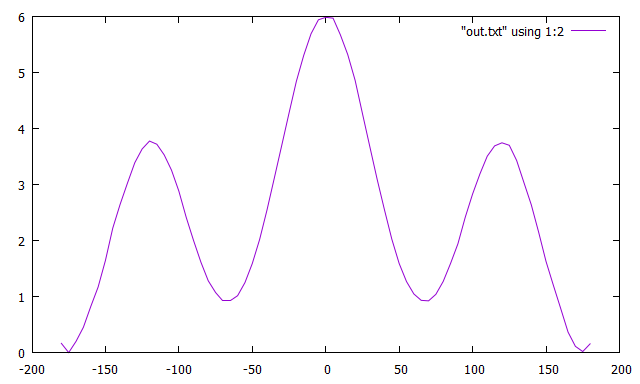
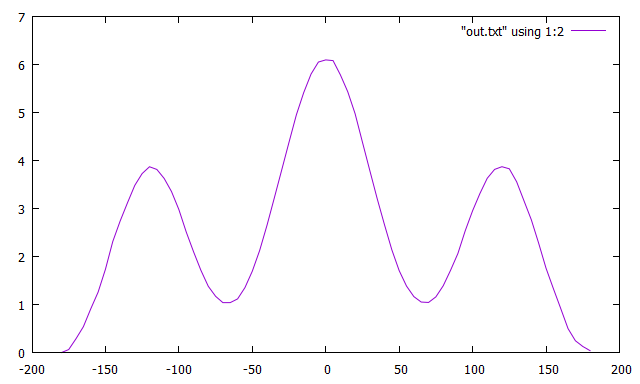
hopefully fix error with dihedrals > 180

diff --git a/manual/Tutorial/LaTeX/Tutorial.tex b/manual/Tutorial/LaTeX/Tutorial.tex
@@ -1300,17 +1300,17 @@ import os
 import shutil
 
 # USER INPUT
-STEPS = range(-180, 185, 5)           # to which values was the restraint set? 
+STEPS = range(-180, 185, 5)           # to which values should the restraint be set? 
 FORCE_CONSTANT = 0.05                 # force constant of biasing potential
 PATH = "/apps/wham/wham/wham"         # path to WHAM program
 
 # ... for WHAM
-REACTION_COORD = "torsion"   # what kind of reaction coordinate? 'bond' or 'torsion'
-BINS = 73                    # number of points in final PMF (= number of bins)
-MIN = -182.5                 # minimum boundary of histogram
-MAX = 182.5                  # maximum boundary of histogram
-TEMP = 300                   # temperature for WHAM 
-TOL = 0.00001                # tolerance for WHAM interations
+PERIOD = None       # periodicity of the reaction coordinate, description see WHAM manual |\label{wham_period}|
+MIN = -182.5        # minimum boundary of histogram
+MAX = 182.5         # maximum boundary of histogram
+BINS = 73           # number of points in final PMF (= number of bins)
+TEMP = 300          # temperature for WHAM 
+TOL = 0.00001       # tolerance for WHAM interations
 
 
 # creates a folder 'analysis' and copies all 'umbrella.txt' files there
@@ -1326,7 +1326,7 @@ def copy_and_and_create_inputfile():
             shutil.copy("{}/umbrella.txt".format(s),"analysis/umbrella_{}.txt".format(s))
             # write inputfile for WHAM
             with open("analysis/in.txt","a") as inp:         
-                inp.write("umbrella_{}.txt    {}    {}\n".format(s,float(s),FORCE_CONSTANT))
+                inp.write("umbrella_{}.txt   {}    {}\n".format(s,float(s),FORCE_CONSTANT))
         else:
             print "No file 'umbrella.txt' in folder", s
             sucess = False
@@ -1334,12 +1334,13 @@ def copy_and_and_create_inputfile():
 
 if copy_and_and_create_inputfile():
     os.chdir("analysis")
-    if REACTION_COORD == "bond":
-        os.popen("{} {} {} {} {:.9f} {} 0 in.txt out.txt".format(PATH,MIN,MAX,BINS,TOL,TEMP))
-    elif REACTION_COORD == "torsion":
-        os.popen("{} P {} {} {} {:.9f} {} 0 in.txt out.txt".format(PATH,MIN,MAX,BINS,TOL,TEMP)) |\label{runWHAM}|
+    if PERIOD == None:
+        os.popen("{} {} {} {} {:.9f} {} 0 in.txt out.txt > wham_output.txt".format(   |\label{runWHAM}|
+            PATH,MIN,MAX,BINS,TOL,TEMP))
     else:
-        print "ERROR: unvalid kind of reaction coordinate!"
+        os.popen("{} {} {} {} {} {:.9f} {} 0 in.txt out.txt  > wham_output.txt".format(
+            PATH,PERIOD,MIN,MAX,BINS,TOL,TEMP))
+
 \end{lstlisting}
 
 We start this script the same way as before by typing \texttt{python umbrella\_analysis.py} into a command prompt. Let's see what user input we need:
@@ -1348,24 +1349,39 @@ We start this script the same way as before by typing \texttt{python umbrella\_a
 	\item \texttt{FORCE\_CONSTANT} is the force constant of the biasing potential. 
 	\item For \texttt{PATH} we give the path to the WHAM program including the command \texttt{wham} itself. 
 	\item These three options we need to write the WHAM inputfile \texttt{in.txt}. The following options are needed for running WHAM in line \ref{runWHAM}:
-	\item WHAM needs to know if your reaction coordinate is a bond or a torsion because in case of a torsion it takes into account the symmetry. This information is given by \texttt{REACTION\_COORD}.
+	\item \texttt{PERIOD} is the periodicity of the reaction coordinate that WHAM uses. For now we want to ignore periodicity so we choose \texttt{None}.
 	\item \texttt{BINS} is the number of points where the PMF is calculated. This is not necessarily the same number as the number of the simulations we ran but it's a good point to start.
 	\item \texttt{MIN} and \texttt{MAX} are the minimum and maximum boundary of the histogram. As we want our 73 bins to have their center at the same value for the torsion restraints, -182.5° and 182.5° are the values we have to type here.
 	\item \texttt{TEMP} is the temperature where WHAM should be performed. Again it doesn't have to be the same as where the MD simulations were performed but again, why not?
 	\item \texttt{TOL} is a tolerance value for the WHAM iterations. As WHAM is quite fast it is also possible to try different values here and compare the results.
 \end{itemize}
 
-After we have run the script we can go into the folder \texttt{analysis} which was created by the script. Besides the single \texttt{umbrella\_*.txt} files, that were copied from the simulation folders, an input file \texttt{in.txt} was created by the script and an output file \texttt{out.txt} was created by WHAM. 
+After we have run the script we can go into the folder \texttt{analysis} which was created by the script. Besides the single \texttt{umbrella\_*.txt} files, that were copied from the simulation folders, an input file \texttt{in.txt} was created by the script and an output file \texttt{out.txt} was created by WHAM. Furthermore the console output of WHAM is written to a file called \texttt{wham\_output.txt}. The first line here is the input you gave to WHAM (might be useful if you want to know what you did or if you want to repeat the calculation), so in our case it is:
+\begin{lstlisting}[frame=single]
+# /apps/wham/wham/wham -182.5 182.5 73 0.000010000 300 0 in.txt out.txt
+...
+\end{lstlisting}
 
 We first have a look into the inputfile: It contains for every single window the name of the \texttt{umbrella\_*.txt} file, the value to which the torsinal angle was restrained and the force constant of the biasing potential.
 
-In the output file we only look at lines 1 to 74. The first column contains the center of the bins we defined by the minimum and maximum value of the torsional angle and the number of bins. The second column contains the Free Energy difference $A(\xi)$. We see that it's highest value is at 0°. This is what we expect because there the two methyl groups are next to each other (gauche conformation). This value should be somewhere near $5.76 \frac{kcal}{mol}$\myCite{becker_development_2015}. In my example it is around $5.99 \frac{kcal}{mol}$ or $5.83 \frac{kcal}{mol}$ depending on if I define zero energy as the energy at -180° (where it should be lowest) or as the energy at -175° (where it is lowest). Results here can differ a bit because there is always a lot of randomness in MD simulations. The third and the fifth column are bullshit, the fourth line contains the probability. When the Free Energy is high the probability is low and the other way round. Because all other lines start with \texttt{\#} it is quite easy to plot this file with gnuplot: \texttt{plot "out.txt" using 1:2 with lines} shows the Free Energy, \texttt{plot "out.txt" using 1:4 with lines} shows the probability. The results should look something like figure \ref{fig:wham_result}.
+In the output file we only look at lines 1 to 74. The first column contains the center of the bins we defined by the minimum and maximum value of the torsional angle and the number of bins. The second column contains the Free Energy difference $A(\xi)$. We see that it's highest value is at 0°. This is what we expect because there the two methyl groups are next to each other (gauche conformation). This value should be somewhere near $5.76 \frac{kcal}{mol}$\myCite{becker_development_2015}. In my example it is around $6.1 \frac{kcal}{mol}$. Results here can differ a bit because there is always a lot of randomness in MD simulations. The third and the fifth column are bullshit, the fourth line contains the probability. When the Free Energy is high the probability is low and the other way round. Because all other lines start with \texttt{\#} it is quite easy to plot this file with gnuplot: \texttt{plot "out.txt" using 1:2 with lines} shows the Free Energy, \texttt{plot "out.txt" using 1:4 with lines} shows the probability. The results should look something like figure \ref{fig:wham_result}.
 
 \begin{figure} [htb]
 	\subfigure[Free Energy]{\includegraphics[width=0.49\textwidth]{Img/umbrella_FreeEnergy.png}}
 	\subfigure[Probability]{\includegraphics[width=0.49\textwidth]{Img/umbrella_Probability.png}}
-	\caption{Results of the WHAM calculation}
+	\caption{Results of the WHAM calculation without periodicity}
 	\label{fig:wham_result}
+\end{figure} 
+
+Now we have finished our first Umbrella calculation! But above we assumed that our reaction coordinate has no periodicity whereas it should have a 360° periodicity. So we rename our analysis folder (e.\,g. to \texttt{analysis\_without\_periodicity} and go back to the script \texttt{umbrella\_analysis.py} where we change the variable \texttt{PERIOD} in line \ref{wham_period} to \texttt{"P"} and run the script again.
+
+Now we plot the output file again with gnuplot. The results are shown in figure \ref{fig:wham_result_period}.
+
+\begin{figure} [htb]
+	\subfigure[Free Energy]{\includegraphics[width=0.49\textwidth]{Img/umbrella_FreeEnergy_period.png}}
+	\subfigure[Probability]{\includegraphics[width=0.49\textwidth]{Img/umbrella_Probability_period.png}}
+	\caption{Results of the WHAM calculation with periodicity}
+	\label{fig:wham_result_period}
 \end{figure} 
 
 

diff --git a/src/coords_bias.cc b/src/coords_bias.cc
@@ -180,6 +180,12 @@ void coords::bias::Potentials::umbrelladih(Representation_3D const &positions,
       if (torsion > 0) {
         uout.push_back(torsion);
         diff = torsion - dih.angle;
+        if (diff < -180) {
+          diff = diff + 360;
+        }
+        else if (diff > 180) {
+          diff = diff - 360;
+        }
         dE = dih.force * diff * SCON_180PI;
       }
       else {
@@ -190,18 +196,24 @@ void coords::bias::Potentials::umbrelladih(Representation_3D const &positions,
         else uout.push_back(torsion);
         diff = torsion - dih.angle;
         if (diff < -180) {
-          diff = 360 + diff;
-          dE = dih.force * diff * SCON_180PI;
+          diff = diff + 360;
         }
-        else {
-          dE = dih.force * diff * SCON_180PI;
+        else if (diff > 180) {
+          diff = diff - 360;
         }
+        dE = dih.force * diff * SCON_180PI;
       }
     }// end of angle > 0
     else if (dih.angle < 0) {
       if (torsion < 0) {
         uout.push_back(torsion);
         diff = torsion - dih.angle;
+        if (diff < -180) {
+          diff = diff + 360;
+        }
+        else if (diff > 180) {
+          diff = diff - 360;
+        }
         dE = dih.force * diff * SCON_180PI;
       }
       else {
@@ -212,10 +224,12 @@ void coords::bias::Potentials::umbrelladih(Representation_3D const &positions,
         else  uout.push_back(torsion);
         diff = torsion - dih.angle;
         if (diff > 180) {
-          diff = 360 - diff;
-          dE = -dih.force * diff * SCON_180PI;
+          diff = diff - 360;
         }
-        else dE = dih.force * diff * SCON_180PI;
+        else if (diff < -180) {
+          diff = diff + 360;
+        }
+        dE = dih.force * diff * SCON_180PI;
       }
     }// end of angle < 0
     else if (dih.angle == 0) {
@@ -228,15 +242,16 @@ void coords::bias::Potentials::umbrelladih(Representation_3D const &positions,
     t *= dE / (tl2*r12);
     u = cross(u, b12);
     u *= -dE / (ul2*r12);
-    //std::cout << "U W: " << torsion << ", AW: " << diff << ", SOLL: " << dih.angle;
-    //std::cout << "; FORCE: " << dih.force << ", DE: " << dE << ", PW: " << uout.back() << std::endl;
-    //std::cout << dih.index[0] << "   " << dih.index[1] << "   " << dih.index[2] << "   " << dih.index[3] << std::endl;
+    if (Config::get().general.verbosity == 4)
+    {
+      std::cout << "U W: " << torsion << ", AW: " << diff << ", SOLL: " << dih.angle;
+      std::cout << "; FORCE: " << dih.force << ", DE: " << dE << ", PW: " << uout.back() << std::endl;
+      std::cout << dih.index[0] << "   " << dih.index[1] << "   " << dih.index[2] << "   " << dih.index[3] << std::endl;
+    }
     gradients[dih.index[0]] += cross(t, b12);
     gradients[dih.index[1]] += cross(b02, t) + cross(u, b23);
     gradients[dih.index[2]] += cross(t, b01) + cross(b13, u);
     gradients[dih.index[3]] += cross(u, b12);
-    //std::cout << "U GRAD:  " << t.crossd(b12) << "   " << (b02.crossd(t) + u.crossd(b23));
-    //std::cout << "   " << (t.crossd(b01) + b13.crossd(u)) << "  " << u.crossd(b12) << std::endl;
   }
 
 }

diff --git a/optional_files/scripts/umbrella_analysis.py b/optional_files/scripts/umbrella_analysis.py
@@ -9,12 +9,12 @@ FORCE_CONSTANT = 0.05                 # force constant of biasing potential
 PATH = "/apps/wham/wham/wham"         # path to WHAM program
 
 # ... for WHAM
-REACTION_COORD = "torsion"   # what kind of reaction coordinate? 'bond' or 'torsion'
-MIN = -182.5                 # minimum boundary of histogram
-MAX = 182.5                  # maximum boundary of histogram
-BINS = 73                    # number of points in final PMF (= number of bins)
-TEMP = 300                   # temperature for WHAM 
-TOL = 0.00001                # tolerance for WHAM interations
+PERIOD = "P"        # periodicity of the reaction coordinate, description see WHAM manual
+MIN = -180          # minimum boundary of histogram
+MAX = 180           # maximum boundary of histogram
+BINS = 73           # number of points in final PMF (= number of bins)
+TEMP = 300          # temperature for WHAM 
+TOL = 0.00001       # tolerance for WHAM interations
 
 
 # creates a folder 'analysis' and copies all 'umbrella.txt' files there
@@ -38,9 +38,9 @@ def copy_and_and_create_inputfile():
 
 if copy_and_and_create_inputfile():
     os.chdir("analysis")
-    if REACTION_COORD == "bond":
-        os.popen("{} {} {} {} {:.9f} {} 0 in.txt out.txt".format(PATH,MIN,MAX,BINS,TOL,TEMP))
-    elif REACTION_COORD == "torsion":
-        os.popen("{} P {} {} {} {:.9f} {} 0 in.txt out.txt".format(PATH,MIN,MAX,BINS,TOL,TEMP))
+    if PERIOD == None:
+        os.popen("{} {} {} {} {:.9f} {} 0 in.txt out.txt > wham_output.txt".format(
+            PATH,MIN,MAX,BINS,TOL,TEMP))
     else:
-        print "ERROR: unvalid kind of reaction coordinate!"
+        os.popen("{} {} {} {} {} {:.9f} {} 0 in.txt out.txt > wham_output.txt".format(
+            PATH,PERIOD,MIN,MAX,BINS,TOL,TEMP))
